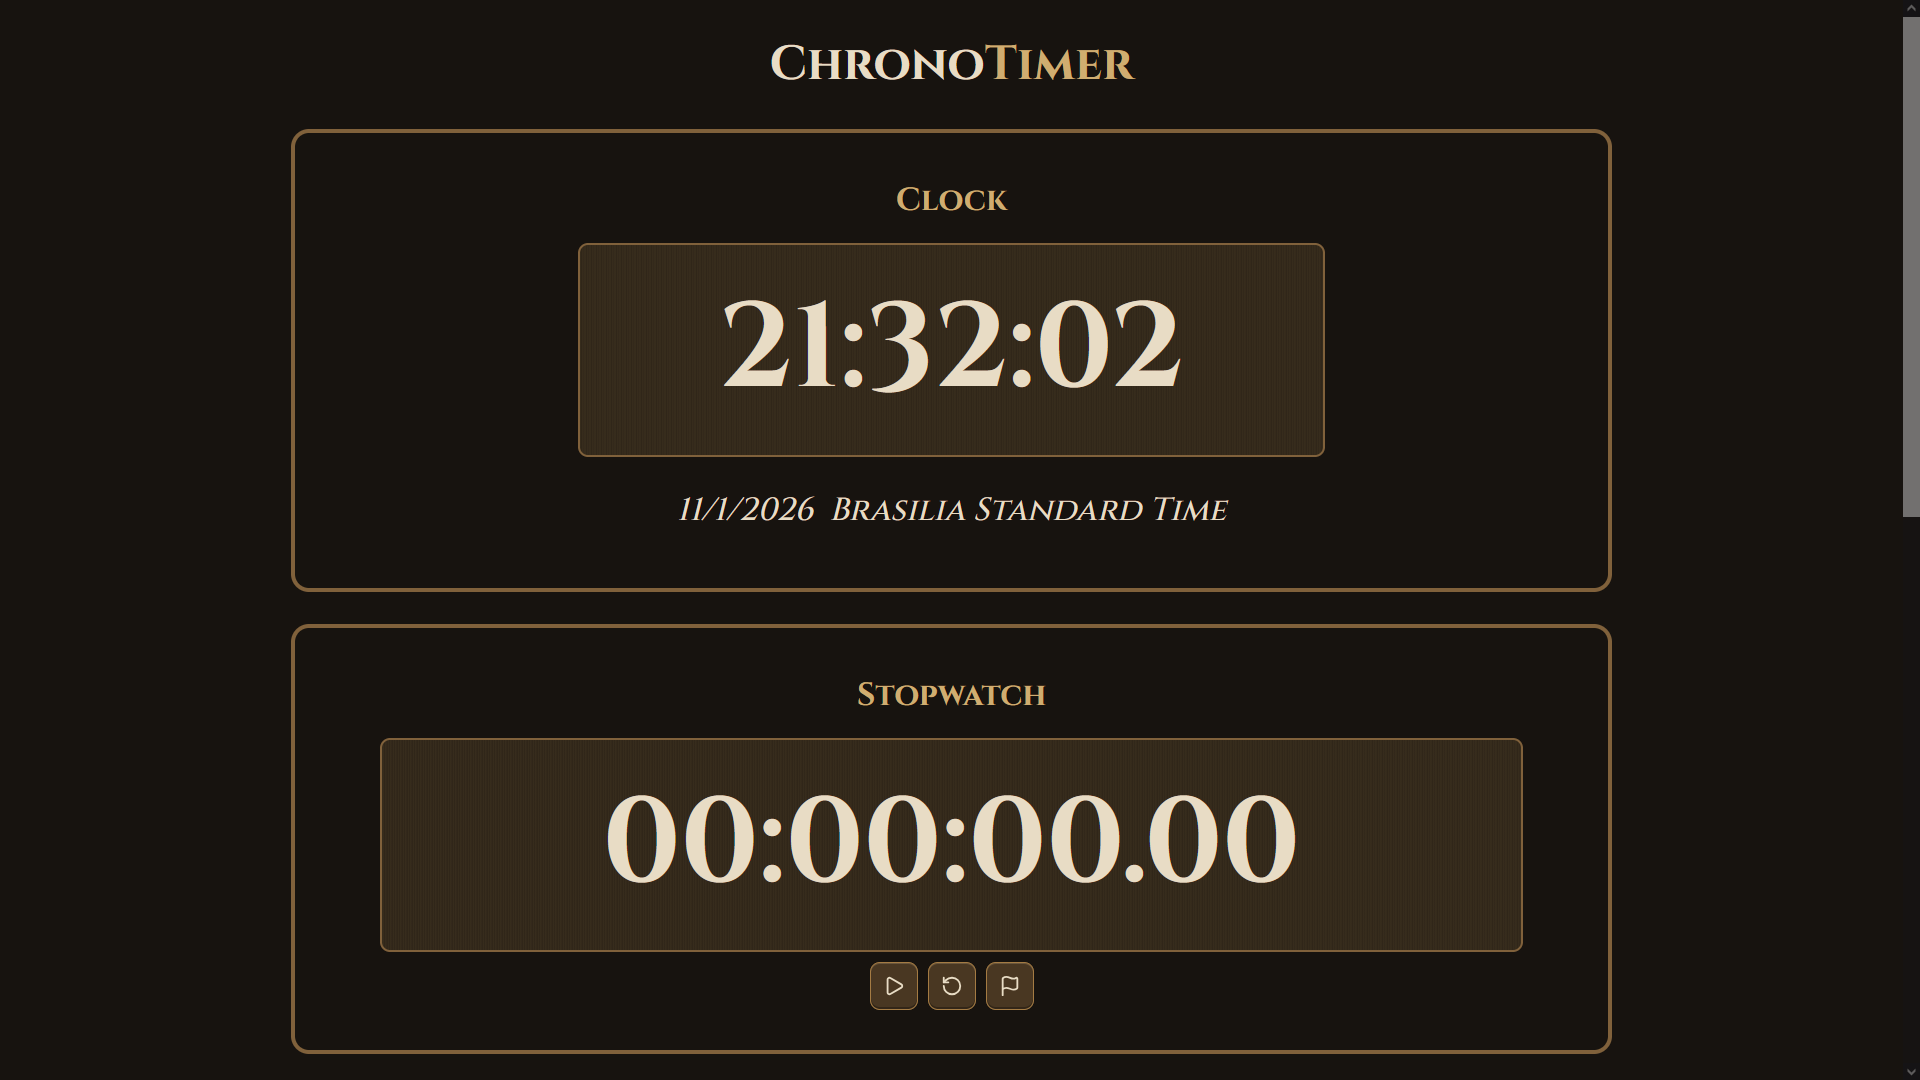
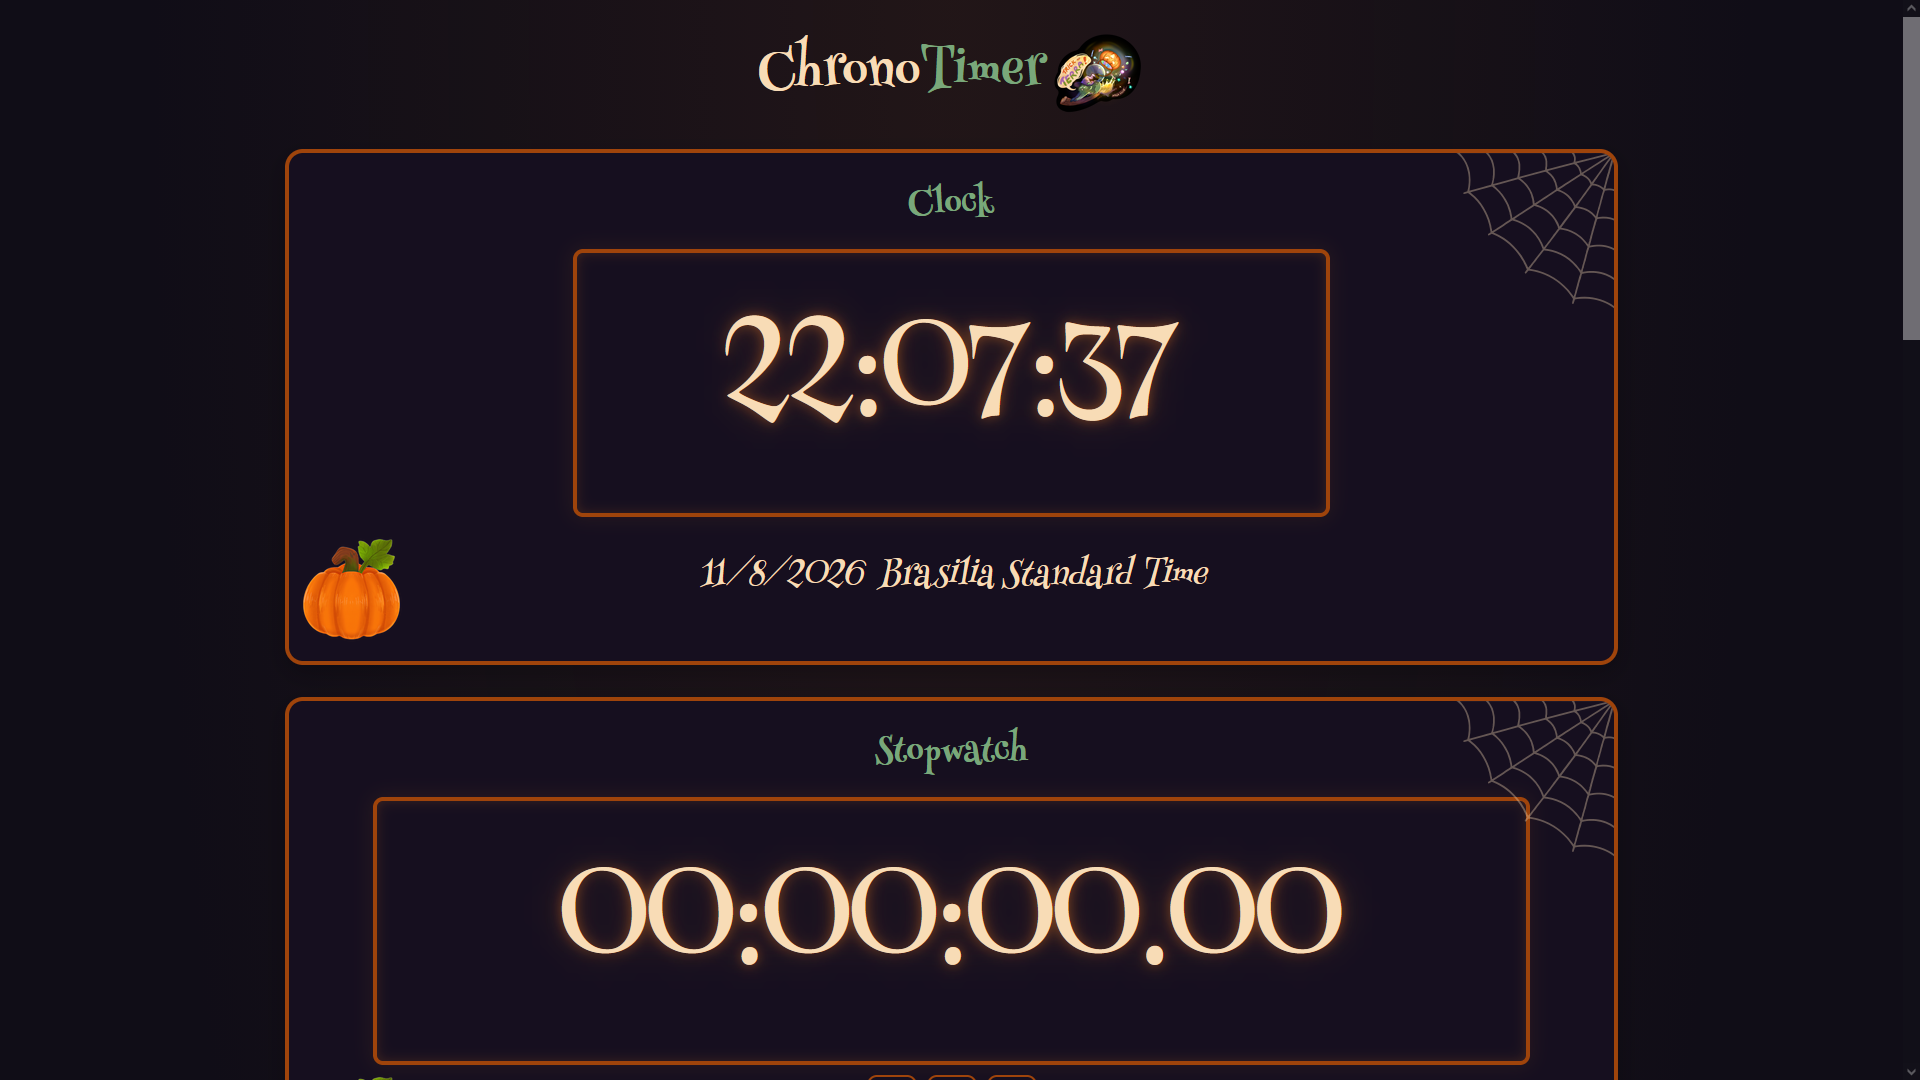
Final readme and last review of everything and easter egg add (Tip 2: Keep spamming the Set button. Eventually, the alarm sound will change. Be patient...)

Changed region(s): [[0.125, 0.0306, 0.8438, 1.0], [0.3125, 0.4583, 0.6875, 0.4889], [0.9688, 0.3056, 1.0, 0.4889]]

diff --git a/tools/chrono/js/script.js b/tools/chrono/js/script.js
@@ -696,10 +696,27 @@ function resetPomodoro()
 }
 
 const alarmSound = new Audio("../../assets/Chrono/audio/bell.wav");
+const secretAlarmSound = new Audio("../../assets/Chrono/audio/ghost.mp3");
+
 
 function playAlarm() {
     alarmSound.currentTime = 0;
-    alarmSound.play().catch(error => console.error("Erro ao reproduzir alarme:", error)) //cria erro no console caso nao funcione
+    secretAlarmSound.currentTime = 0;
+    if(Math.random() < 0.09)
+    {
+        document.getElementById("ghostJumpscare").style.display = "flex";
+        secretAlarmSound.play().catch(error => console.error("Erro ao reproduzir alarme:", error)) //cria erro no console caso nao funcione
+    }
+    
+    else
+    {
+        alarmSound.play().catch(error => console.error("Erro ao reproduzir alarme:", error)) //secret kkk
+    }
+
+    secretAlarmSound.onended = () => //parte do secret
+    {
+        document.getElementById("ghostJumpscare").style.display = "none";
+    };  
 }
 
 function renderIcons()

diff --git a/tools/chrono/css/style.css b/tools/chrono/css/style.css
@@ -505,6 +505,27 @@ button:focus-visible, input:focus-visible, a:focus-visible
     animation: flicker 4s infinite;
 }
 
+#ghostJumpscare
+{
+    display: none;
+    position: fixed;
+    inset: 0;
+    z-index: 9999;
+    justify-content: center;
+    align-items: center;
+    background: black;
+}
+
+#ghostJumpscare img
+{
+    max-width: 90vw;
+    max-height: 90vh;
+}
+
+.alarmStatus {
+    margin: 0.5rem 0;
+}
+
 button:active, .stopwatch-buttons button:active, .pomodoroButtons button:active, .timerButtons button:active, .shortcutButtons button:active, .secondaryInput button:active, .pomodoroShortcut button:active, .pomodoroInput input:active, .pomodoroInput button:active, .alarmInput input:active, .alarmShortcuts button:active
 {
     background: var(--accent);

diff --git a/tools/chrono/index.html b/tools/chrono/index.html
@@ -135,6 +135,10 @@
     <p>&copy; 2026 Chrono - Made by Lucas</p>
     <img src="../../assets/images/Brasil.svg" alt="Brasil flag">
   </footer>
+  <div id="ghostJumpscare">
+    <img src="https://media.tenor.com/kQWGvbjuE2IAAAAM/sppoky-ghost.gif" alt="Ghost">
+  </div>
+
 </body>
 
 </html>

diff --git a/tools/chrono/README.md b/tools/chrono/README.md
@@ -71,10 +71,24 @@ The display shows how much time is left.
 ### R to reset
 ### Space to start (default is stopwatch)
 
+*Some sounds may be... unexpected.*
+
+*You might not hear them the same way twice.*
+
+*tip: Try a few times..*
+
 ## Screenshots
+
+### Current
 
 ![Current1](../../assets/Chrono/Current1.png)
 ![Current2](../../assets/Chrono/Current2.png)
+![Current3](../../assets/Chrono/Current3.png)
+![Current4](../../assets/Chrono/Current4.png)
+
+### V1
+![Pastv1](../../assets/Chrono/V1-1.png)
+![Pastv1](../../assets/Chrono/V1-2.png)
 
 ### FOR THE REVIEWER
 
